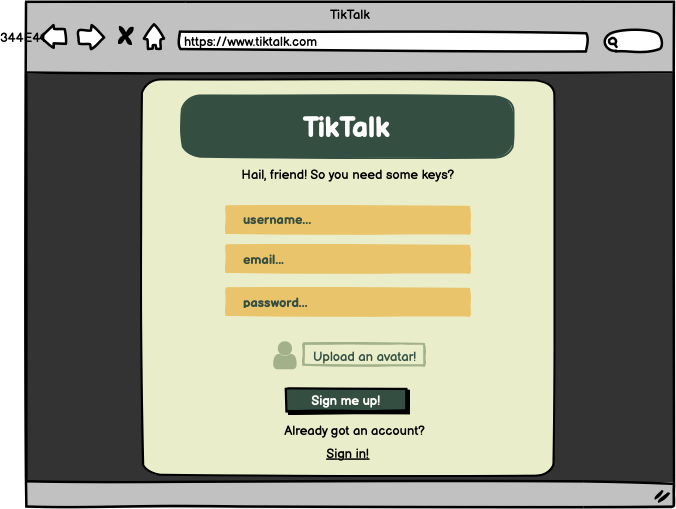
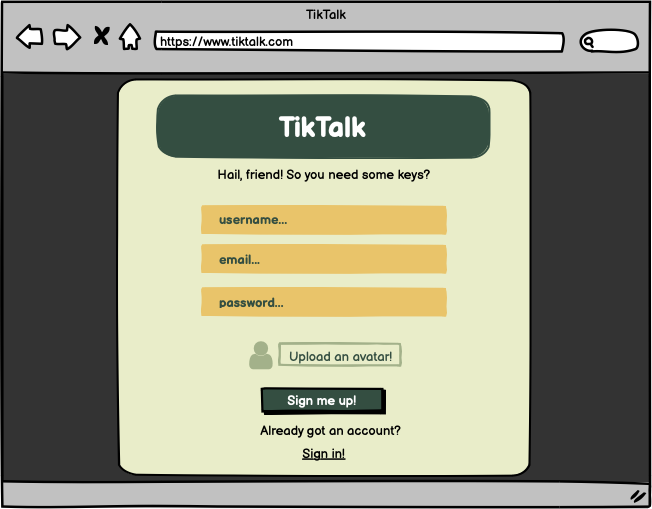
R5: Wireframes, R6: Trello Screenshots (#16)
* First draft answers for R1

* trello screenshots

* fixed readme conflicts

* more trello screenshots

* more trello screenshots

* added more screenshots

* tidied up screenshots and removed duplicate folders

* one more screenshot for this push

* updated readme to reflect what is in docs folder

* small readme edit

* redid a lot of wireframes and added functionality descriptions

* fixed up wireframes and adjusted README

diff --git a/README.md b/README.md
@@ -180,69 +180,21 @@ The database is hosted in MongoDB's Atlas. It consists of a DB cluster containin
 
 This chat application will feature light and dark mode. The dark mode is a halloween-based theme, and the light mode is a combination of light colours.
 
-### Sign Up Page Mobile (Dark Mode)
+### Sign Up, Login, Chats, and Show Chat Mobile (Dark Mode)
 
-![R5](./docs/wireframes/Sign%20Up%20Mobile%20DARKMODE%20copy.png)
+![R5](./docs/wireframes/Login%2C%20Sign-Up%2C%20Chats%2C%20Show%20Chat%20MOBILE%20DARKMODE.png)
 
-### Sign Up Page Mobile (Light Mode)
+### Sign Up, Login, Chats, and Show Chat Mobile (Light Mode)
 
-![R5](./docs/wireframes/Sign%20Up%20Mobile%20LIGHTMODE.png)
+![R5](./docs/wireframes/Login%2C%20Sign-Up%2C%20Chats%2C%20Show%20Chat%20MOBILE%20LIGHTMODE.png)
 
-### Log In Page Mobile (Dark Mode)
+### Sign Up, Login, Chats, and Show Chat Tablet (Dark Mode)
 
-![R5](./docs/wireframes/Login%20Mobile%20DARKMODE.png)
+![R5](./docs/wireframes/Login%2C%20Sign-Up%2CChats%2C%20Show%20Chat%20Tablet%20DARKMODE.png)
 
-### Log In Page Mobile (Light Mode)
+### Sign Up, Login, Chats, and Show Chat Tablet (Light Mode)
 
-![R5](./docs/wireframes/Login%20Mobile%20LIGHTMODE.png)
-
-### Chats Page Mobile (Dark Mode)
-
-![R5](./docs/wireframes/Chats%20Mobile%20DARKMODE.png)
-
-### Chats Page Mobile (Light Mode)
-
-![R5](./docs/wireframes/Chats%20Mobile%20LIGHTMODE.png)
-
-### Show Chat Page Mobile (Dark Mode)
-
-![R5](./docs/wireframes/Show%20Chat%20Mobile%20DARKMODE%20copy.png)
-
-### Show Chat Page Mobile (Light Mode)
-
-![R5](./docs/wireframes/Show%20Chat%20Mobile%20LIGHTMODE.png)
-
-### Sign Up Page Tablet (Dark Mode)
-
-![R5](./docs/wireframes/Sign%20Up%20Tablet%20DARKMODE%20copy.png)
-
-### Sign Up Page Tablet (Light Mode)
-
-![R5](./docs/wireframes/Sign%20Up%20Tablet%20LIGHTMODE.png)
-
-### Log In Page Tablet (Dark Mode)
-
-![R5](./docs/wireframes/Login%20Tablet%20DARKMODE.png)
-
-### Log In Page Tablet (Light Mode)
-
-![R5](./docs/wireframes/Login%20Tablet%20LIGHTMODE.png)
-
-### Chats Page Tablet (Dark Mode)
-
-![R5](./docs/wireframes/Chats%20Tablet%20DARKMODE.png)
-
-### Chats Page Tablet (Light Mode)
-
-![R5](./docs/wireframes/Chats%20Tablet%20LIGHTMODE.png)
-
-### Show Chat Page Tablet (Dark Mode)
-
-![R5](./docs/wireframes/Show%20Chat%20Tablet%20DARKMODE.png)
-
-### Show Chat Page Tablet (Light Mode)
-
-![R5](./docs/wireframes/Show%20Chat%20Tablet%20LIGHTMODE.png)
+![R5](./docs/wireframes/Login%2C%20Sign-Up%2CChats%2C%20Show%20Chat%20Tablet%20LIGHTMODE.png)
 
 ### Sign Up Page Desktop (Dark Mode)
 
@@ -268,3 +220,12 @@ This chat application will feature light and dark mode. The dark mode is a hallo
 
 ![R5](./docs/wireframes/Chat%20Desktop%20LIGHTMODE.png)
 
+## R6: Trello Screenshots
+
+This is a link to our trello workspace: 
+
+https://trello.com/b/rhCwvSGR/tiktalk 
+
+And a link to all trello screenshots. All are labelled with dates and descriptions.
+
+[Trello](./docs/trello-screenshots/)
